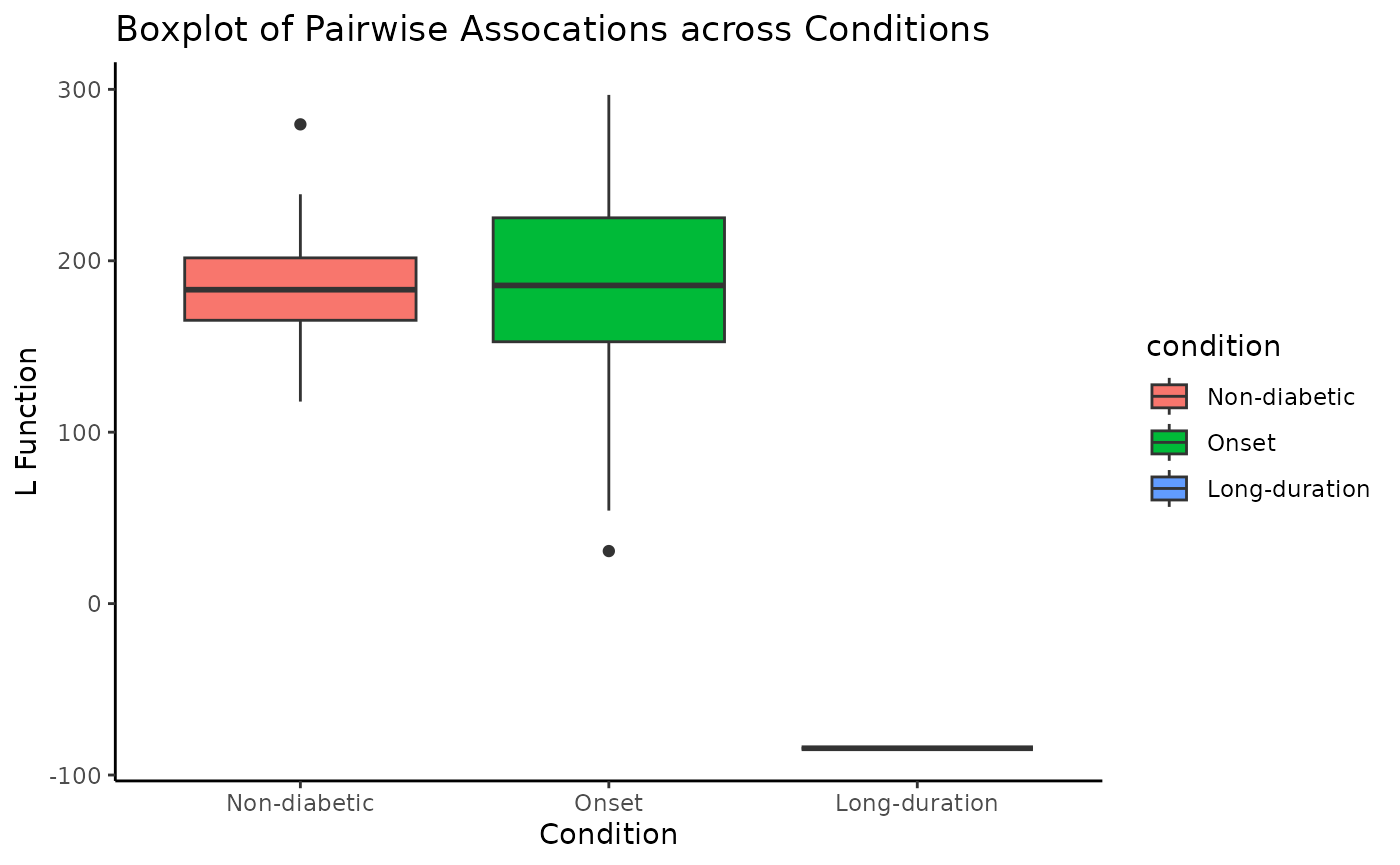
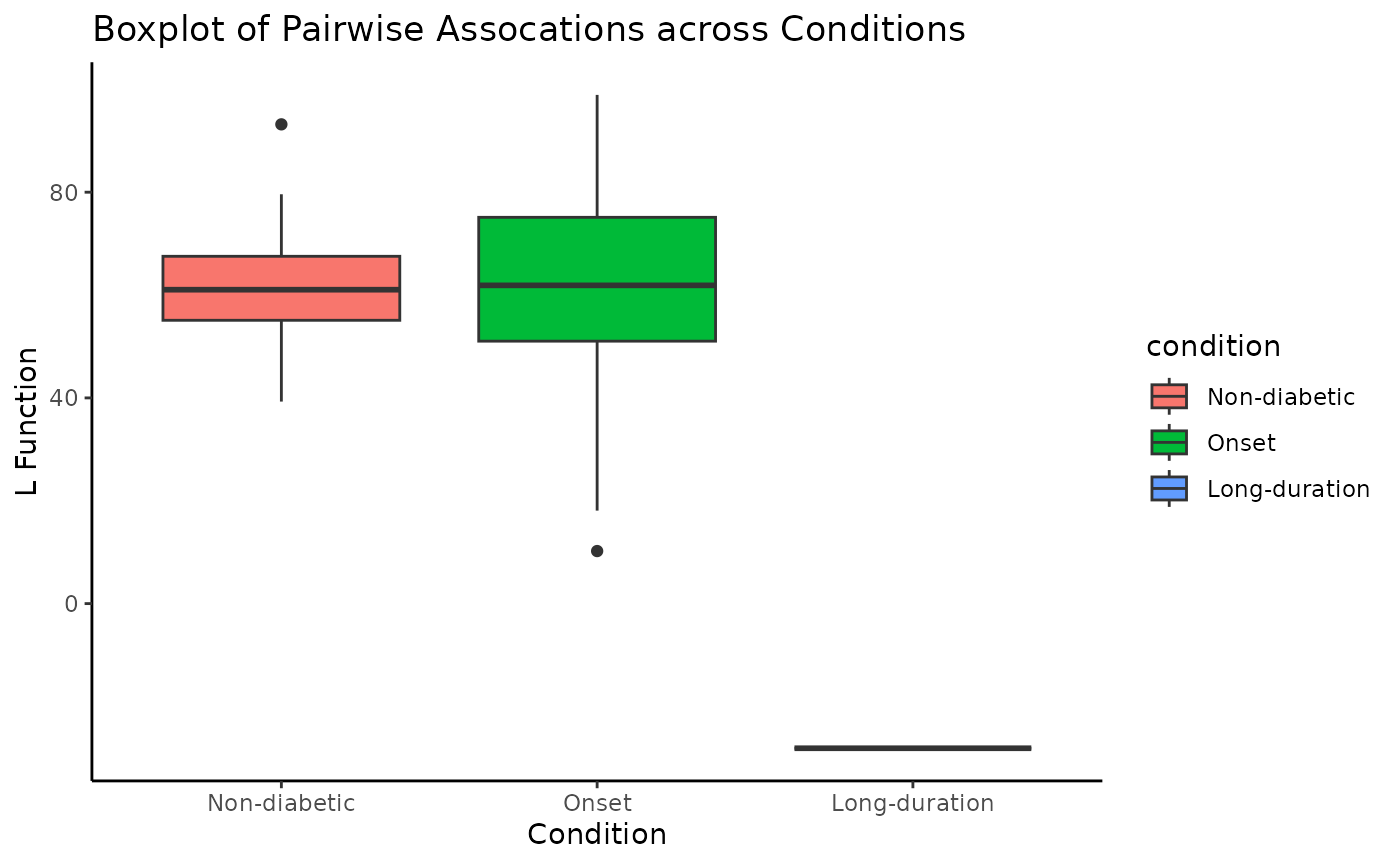
Deploying to gh-pages from @ SydneyBioX/spicyR@6dada5eb6ee3072557a5ed91aa0217092b14021a 🚀

diff --git a/articles/spicyR.html b/articles/spicyR.html
@@ -67,7 +67,7 @@ Qin</h4>
             <address class="author_afil">
       Westmead Institute for Medical Research, University of Sydney,
 AustraliaSchool of Mathematics and Statistics, University of Sydney,
-Australia<br><h4 data-toc-skip class="date">20 August 2024</h4>
+Australia<br><h4 data-toc-skip class="date">21 August 2024</h4>
       
       <small class="dont-index">Source: <a href="https://github.com/SydneyBioX/spicyR/blob/devel/vignettes/spicyR.Rmd" class="external-link"><code>vignettes/spicyR.Rmd</code></a></small>
       <div class="d-none name"><code>spicyR.Rmd</code></div>
@@ -166,8 +166,8 @@ base condition and the second level as the comparison condition.
 <span><span class="op">)</span></span>
 <span></span>
 <span><span class="fu"><a href="../reference/topPairs.html">topPairs</a></span><span class="op">(</span><span class="va">spicyTestPair</span><span class="op">)</span></span>
-<span><span class="co">#&gt;             intercept coefficient     p.value  adj.pvalue from    to</span></span>
-<span><span class="co">#&gt; beta__delta  182.2128   -34.00085 0.008724782 0.008724782 beta delta</span></span></code></pre></div>
+<span><span class="co">#&gt;             intercept coefficient    p.value adj.pvalue from    to</span></span>
+<span><span class="co">#&gt; beta__delta   60.9221   -7.998767 0.05427664 0.05427664 beta delta</span></span></code></pre></div>
 <p>We obtain a <code>spicy</code> object which details the results of
 the mixed effects modelling performed. As the <code>coefficient</code>
 in <code>spicyTest</code> is positive, we find that delta cells cells
@@ -190,38 +190,38 @@ parameters from <code><a href="../reference/spicy.html">spicy()</a></code>.</p>
 <span></span>
 <span><span class="fu"><a href="../reference/topPairs.html">topPairs</a></span><span class="op">(</span><span class="va">spicyTest</span><span class="op">)</span></span>
 <span><span class="co">#&gt;                          intercept coefficient      p.value adj.pvalue</span></span>
-<span><span class="co">#&gt; beta__delta           1.815457e+02  -48.736479 0.0005032491 0.07169646</span></span>
-<span><span class="co">#&gt; delta__beta           1.817943e+02  -48.166076 0.0005601286 0.07169646</span></span>
-<span><span class="co">#&gt; B__unknown           -1.442506e-15   11.770769 0.0052340673 0.42052603</span></span>
-<span><span class="co">#&gt; delta__delta          2.089550e+02  -52.061196 0.0125129204 0.42052603</span></span>
-<span><span class="co">#&gt; unknown__macrophage   1.007336e+01  -15.826911 0.0207411810 0.42052603</span></span>
-<span><span class="co">#&gt; unknown__B           -2.212263e-15   12.142843 0.0225856400 0.42052603</span></span>
-<span><span class="co">#&gt; macrophage__unknown   1.004422e+01  -14.471640 0.0244668217 0.42052603</span></span>
-<span><span class="co">#&gt; B__Th                 4.714404e-15   26.847613 0.0245045799 0.42052603</span></span>
-<span><span class="co">#&gt; otherimmune__naiveTc -9.292507e+00   33.584768 0.0255811877 0.42052603</span></span>
-<span><span class="co">#&gt; ductal__ductal        1.481580e+01   -8.632552 0.0266937176 0.42052603</span></span>
+<span><span class="co">#&gt; beta__delta           6.081500e+01  -15.433244 0.0006616410 0.09171134</span></span>
+<span><span class="co">#&gt; delta__beta           6.090722e+01  -15.276364 0.0007164949 0.09171134</span></span>
+<span><span class="co">#&gt; B__Th                 2.553231e-15   10.480124 0.0127535339 0.42316692</span></span>
+<span><span class="co">#&gt; delta__delta          7.021912e+01  -16.358092 0.0155005315 0.42316692</span></span>
+<span><span class="co">#&gt; Th__B                 2.990836e-15   10.003451 0.0173028442 0.42316692</span></span>
+<span><span class="co">#&gt; B__unknown           -1.049944e-15    4.584274 0.0182158635 0.42316692</span></span>
+<span><span class="co">#&gt; otherimmune__naiveTc -3.179087e+00   11.944638 0.0200221235 0.42316692</span></span>
+<span><span class="co">#&gt; unknown__macrophage   4.339584e+00   -5.274671 0.0222620877 0.42316692</span></span>
+<span><span class="co">#&gt; unknown__B           -1.077521e-15    4.680750 0.0244004305 0.42316692</span></span>
+<span><span class="co">#&gt; macrophage__unknown   4.305429e+00   -4.886438 0.0249693456 0.42316692</span></span>
 <span><span class="co">#&gt;                             from         to</span></span>
 <span><span class="co">#&gt; beta__delta                 beta      delta</span></span>
 <span><span class="co">#&gt; delta__beta                delta       beta</span></span>
-<span><span class="co">#&gt; B__unknown                     B    unknown</span></span>
+<span><span class="co">#&gt; B__Th                          B         Th</span></span>
 <span><span class="co">#&gt; delta__delta               delta      delta</span></span>
+<span><span class="co">#&gt; Th__B                         Th          B</span></span>
+<span><span class="co">#&gt; B__unknown                     B    unknown</span></span>
+<span><span class="co">#&gt; otherimmune__naiveTc otherimmune    naiveTc</span></span>
 <span><span class="co">#&gt; unknown__macrophage      unknown macrophage</span></span>
 <span><span class="co">#&gt; unknown__B               unknown          B</span></span>
-<span><span class="co">#&gt; macrophage__unknown   macrophage    unknown</span></span>
-<span><span class="co">#&gt; B__Th                          B         Th</span></span>
-<span><span class="co">#&gt; otherimmune__naiveTc otherimmune    naiveTc</span></span>
-<span><span class="co">#&gt; ductal__ductal            ductal     ductal</span></span></code></pre></div>
+<span><span class="co">#&gt; macrophage__unknown   macrophage    unknown</span></span></code></pre></div>
 <p>We can also examine the L-function metrics of individual images by
 using the convenient <code><a href="../reference/bind.html">bind()</a></code> function on our spicyTest
 results object.</p>
 <div class="sourceCode" id="cb6"><pre class="downlit sourceCode r">
 <code class="sourceCode R"><span><span class="fu"><a href="../reference/bind.html">bind</a></span><span class="op">(</span><span class="va">spicyTest</span><span class="op">)</span><span class="op">[</span><span class="fl">1</span><span class="op">:</span><span class="fl">5</span>, <span class="fl">1</span><span class="op">:</span><span class="fl">5</span><span class="op">]</span></span>
 <span><span class="co">#&gt;   imageID condition subject ductal__ductal stromal__ductal</span></span>
-<span><span class="co">#&gt; 1     A09     Onset    6362      3.5882456        2.221666</span></span>
-<span><span class="co">#&gt; 2     A11     Onset    6362      3.5803460       -5.070033</span></span>
-<span><span class="co">#&gt; 3     A16     Onset    6362     29.8249524        7.859502</span></span>
-<span><span class="co">#&gt; 4     A17     Onset    6362     30.8885146       20.136107</span></span>
-<span><span class="co">#&gt; 5     A25     Onset    6362      0.9820586       -3.173230</span></span></code></pre></div>
+<span><span class="co">#&gt; 1     A09     Onset    6362       2.252319       1.5935122</span></span>
+<span><span class="co">#&gt; 2     A11     Onset    6362       2.199264      -0.8389297</span></span>
+<span><span class="co">#&gt; 3     A16     Onset    6362      11.056609       3.2865555</span></span>
+<span><span class="co">#&gt; 4     A17     Onset    6362      11.402243       8.0533783</span></span>
+<span><span class="co">#&gt; 5     A25     Onset    6362       1.325912      -0.1260980</span></span></code></pre></div>
 <p>Again, we obtain a <code>spicy</code> object which outlines the
 result of the mixed effects models performed for each pairwise
 combination of cell types.</p>
@@ -427,10 +427,10 @@ using the <code><a href="../reference/signifPlot.html">signifPlot()</a></code> f
 <span><span class="co">#&gt;  [71] EBImage_4.46.0              dplyr_1.1.4                </span></span>
 <span><span class="co">#&gt;  [73] HDF5Array_1.32.1            scam_1.2-17                </span></span>
 <span><span class="co">#&gt;  [75] shinydashboard_0.7.2        withr_3.0.1                </span></span>
-<span><span class="co">#&gt;  [77] numDeriv_2016.8-1.1         BiocManager_1.30.23        </span></span>
+<span><span class="co">#&gt;  [77] numDeriv_2016.8-1.1         BiocManager_1.30.24        </span></span>
 <span><span class="co">#&gt;  [79] fastmap_1.2.0               boot_1.3-30                </span></span>
 <span><span class="co">#&gt;  [81] rhdf5filters_1.16.0         fansi_1.0.6                </span></span>
-<span><span class="co">#&gt;  [83] digest_0.6.36               R6_2.5.1                   </span></span>
+<span><span class="co">#&gt;  [83] digest_0.6.37               R6_2.5.1                   </span></span>
 <span><span class="co">#&gt;  [85] mime_0.12                   textshaping_0.4.0          </span></span>
 <span><span class="co">#&gt;  [87] colorspace_2.1-1            tensor_1.5                 </span></span>
 <span><span class="co">#&gt;  [89] jpeg_0.1-10                 spatstat.data_3.1-2        </span></span>
@@ -445,7 +445,7 @@ using the <code><a href="../reference/signifPlot.html">signifPlot()</a></code> f
 <span><span class="co">#&gt; [107] scales_1.3.0                ggupset_0.4.0              </span></span>
 <span><span class="co">#&gt; [109] png_0.1-8                   spatstat.univar_3.0-0      </span></span>
 <span><span class="co">#&gt; [111] knitr_1.48                  tzdb_0.4.0                 </span></span>
-<span><span class="co">#&gt; [113] reshape2_1.4.4              rjson_0.2.21               </span></span>
+<span><span class="co">#&gt; [113] reshape2_1.4.4              rjson_0.2.22               </span></span>
 <span><span class="co">#&gt; [115] nlme_3.1-164                nloptr_2.1.1               </span></span>
 <span><span class="co">#&gt; [117] proxy_0.4-27                cachem_1.1.0               </span></span>
 <span><span class="co">#&gt; [119] rhdf5_2.48.0                stringr_1.5.1              </span></span>

diff --git a/reference/spicy.html b/reference/spicy.html
@@ -184,10 +184,11 @@ pairwise association calculation.</p></dd>
 <span class="r-in"><span>  condition <span class="op">=</span> <span class="st">"stage"</span>, subject <span class="op">=</span> <span class="st">"case"</span>,</span></span>
 <span class="r-in"><span>  from <span class="op">=</span> <span class="st">"Tc"</span>, to <span class="op">=</span> <span class="st">"Th"</span></span></span>
 <span class="r-in"><span><span class="op">)</span></span></span>
-<span class="r-msg co"><span class="r-pr">#&gt;</span> </span>
-<span class="r-msg co"><span class="r-pr">#&gt;</span> Number of cell type pairs: 1</span>
-<span class="r-msg co"><span class="r-pr">#&gt;</span> Number of differentially localised cell type pairs: </span>
-<span class="r-out co"><span class="r-pr">#&gt;</span> [1] 0</span>
+<span class="r-err co"><span class="r-pr">#&gt;</span> <span class="error">Error:</span> BiocParallel errors</span>
+<span class="r-err co"><span class="r-pr">#&gt;</span>   1 remote errors, element index: 88</span>
+<span class="r-err co"><span class="r-pr">#&gt;</span>   32 unevaluated and other errors</span>
+<span class="r-err co"><span class="r-pr">#&gt;</span>   first remote error:</span>
+<span class="r-err co"><span class="r-pr">#&gt;</span> Error in `$&lt;-.data.frame`(`*tmp*`, "d", value = "20"): replacement has 1 row, data has 0</span>
 <span class="r-in"><span></span></span>
 <span class="r-in"><span><span class="co"># Test all pairwise combinations of cell types without random effect of</span></span></span>
 <span class="r-in"><span><span class="co"># patient.</span></span></span>
